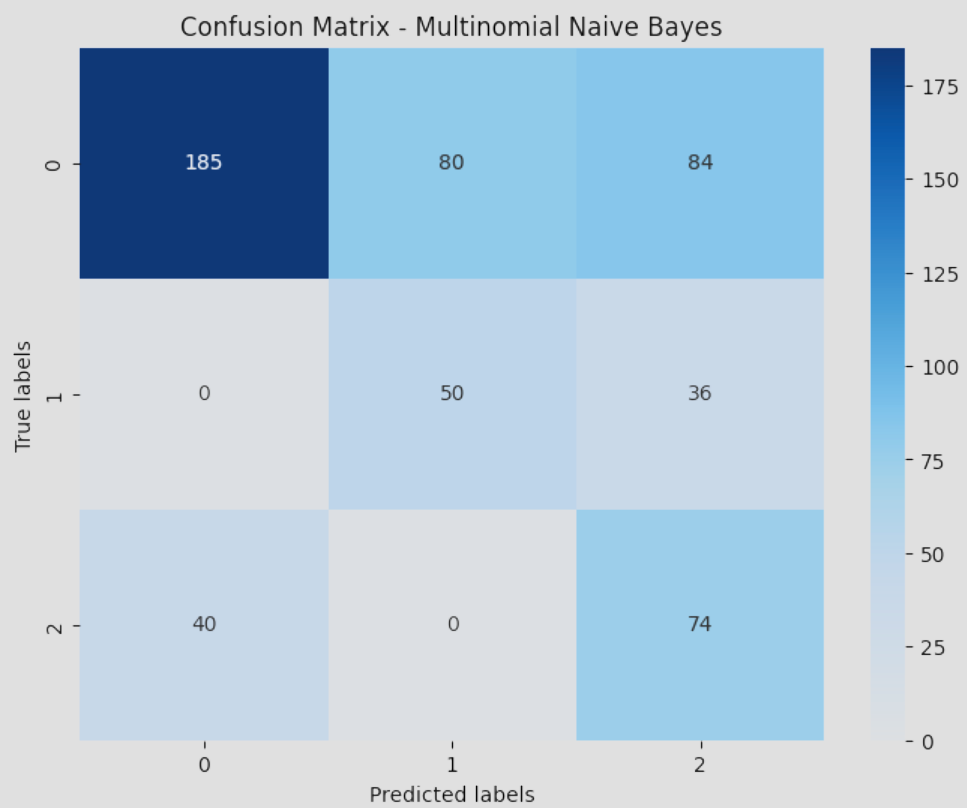
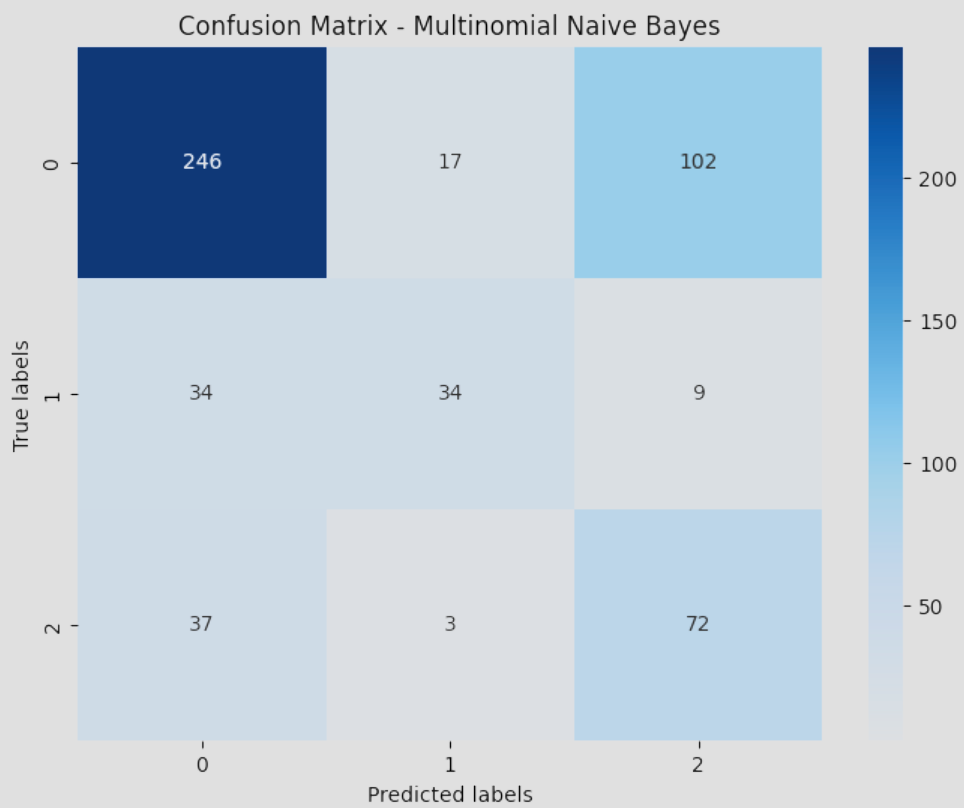
explore highlight font change

diff --git a/personal_portfolio/Portfolio/templates/portfolio/ml_project.html b/personal_portfolio/Portfolio/templates/portfolio/ml_project.html
@@ -975,13 +975,13 @@ h3 {
 
    <div>
        <span class="indented">
-       <h4>Code : <a href="https://github.com/santhosh1299/lithium_ion_battery_discharge_prediction/blob/main/NB.ipynb">Naive Bayes</a></h4>
+       <h4>Code : <a href="https://github.com/santhosh1299/lithium_ion_battery_discharge_prediction/blob/main/naive_bayes_and_decision_tree.ipynb">Naive Bayes</a></h4>
    </span>
    <h3>Results</h3>
 
    <br>
    <p>We noticed that our data had a significant imbalance between classes, meaning some classes were much more prevalent than others. Despite achieving 63% accuracy with a multinomial Naive Bayes model, upon analyzing the confusion matrix, we found discrepancies that raised concerns. To address this, we employed SMOTE, a technique for mitigating class imbalance by generating synthetic samples. However, after implementing SMOTE and retraining the multinomial model, we were disappointed to find a drastic drop in accuracy to only 28%. This outcome puzzled us, leading us to reconsider our approach. We realized that multinomial Naive Bayes is typically suited for text data or categorical data with count frequencies, whereas our data consisted of numerical features. Therefore, we decided to pivot to a Gaussian Naive Bayes model, which is better suited for numerical data. This adjustment was made with the hope of improving our model's performance by aligning it more closely with the nature of our dataset.</p>
-   <h4>Multinomial Naive Bayes model (Accuracy 56%) with imbalanced data</h4>
+   <h4>Multinomial Naive Bayes model (Accuracy 70%) with imbalanced data</h4>
    <img src={% static 'portfolio/NB & DecTree/result_nb_1.png' %} alt="api-logo" width="500" height="500">
    <br>
    <p>After applying the SMOTE technique to the training data</p>
@@ -998,8 +998,16 @@ h3 {
 
    <img src={% static 'portfolio/NB & DecTree/result_nb_3.png' %} alt="api-logo" width="600" height="371">
    <br>
+   <h3>Conclusion</h3>
+   <br>
+   <p>The results of predicting how long batteries will last are really important for different industries. When we know how long a battery will work, we can plan ahead and fix things before they break. This is especially useful for things like planes, cars, and renewable energy sources that rely on batteries. It helps us avoid accidents and saves time and money by fixing things before they break.</p>
 
-   
+<p>But it's not just about fixing things. Knowing how long batteries last helps us use them better. For example, in electric cars, we can make sure batteries are used efficiently and last longer. It also helps us use renewable energy sources, like solar and wind power, more reliably. And in healthcare, it ensures medical devices work when they're needed most.</p>
+
+<p>Overall, predicting battery life helps us work smarter, save money, and keep things running smoothly. By using fancy computer programs and new technology, we can make the world a better place and make sure things keep working for a long time.</p>
+
+
+
 
 </section>
 
@@ -1054,6 +1062,38 @@ h3 {
     <h4>All the categorical columns are converted to numerical values.</h4>
        <img src={% static 'portfolio/NB & DecTree/nb_after.png'' %} alt="api-logo" width="500" height="500">
        <br>
+       <div>
+        <span class="indented">
+        <h4>Code : <a href="https://github.com/santhosh1299/lithium_ion_battery_discharge_prediction/blob/main/naive_bayes_and_decision_tree.ipynb">Decision Tree</a></h4>
+    </span>
+    <h3>Results</h3>
+ 
+     <h4>Decision Tree with Gini as the criteria and other default parameters (Accuracy 98%)</h4>
+    <img src={% static 'portfolio/NB & DecTree/result_dt_1.png' %} alt="api-logo" width="500" height="500">
+    <br>
+    <img src={% static 'portfolio/NB & DecTree/tree_1.png' %} alt="api-logo" width="500" height="500">
+    <p>The tree structure appears overly intricate, featuring an abundance of branches.</p>
+    <br>
+    <h4>Decision Tree with entropy as the criteria and max_depth as 3 (Accuracy 96%)</h4>
+    <img src={% static 'portfolio/NB & DecTree/result_dt_2.png' %} alt="api-logo" width="500" height="500">
+    <br>
+    <img src={% static 'portfolio/NB & DecTree/tree_2.png' %} alt="api-logo" width="500" height="500">
+    <p>The tree complexity is reduced</p>
+    <br>
+    <h4>Decision Tree with entropy as the criteria, max_depth as 3 and max_features as 3 (Accuracy 93%)</h4>
+    <img src={% static 'portfolio/NB & DecTree/result_dt_3.png' %} alt="api-logo" width="500" height="500">
+    <br>
+    <img src={% static 'portfolio/NB & DecTree/tree_3.png' %} alt="api-logo" width="500" height="500">
+    <p>The tree complexity is reduced and the tree looks simple so this will give an generalized and optimal prediction.</p>
+    <br>
+ 
+    <h3>Conclusion</h3>
+    <br>
+    <p>The results of predicting battery life are really important for different industries. When we know the life expectancy of a battery, we can plan ahead and fix things before they break. This is especially useful for things like planes, cars, and renewable energy sources that rely on batteries. It helps us avoid accidents and saves time and money by fixing things before they break.</p>
+    
+    <p>But it's not just about fixing things. Knowing battery life helps us use them better. For example, in electric cars, we can make sure batteries are used efficiently and last longer. It also helps us use renewable energy sources, like solar and wind power, more reliably. And in healthcare, it ensures medical devices work when they're needed most.</p>
+    
+    <p>Overall, predicting battery life helps us work smarter, save money, and keep things running smoothly. By using fancy computer programs and new technology, we can make the world a better place and make sure things keep working for a long time.</p>
     
 
 </section>

diff --git a/personal_portfolio/Portfolio/templates/portfolio/home.html b/personal_portfolio/Portfolio/templates/portfolio/home.html
@@ -24,8 +24,8 @@
         class="img-fluid rounded-circle mb-4"
         src="{% static 'portfolio/santhosh_pic.PNG' %}"
         alt="Santhosh"
-        width="200"
-        height="200"
+        width="290"
+        height="308"
       />
     </div>
   </div>
@@ -486,6 +486,7 @@
 
         .overlay-content {
             color: white;
+            
         }
     </style>
 </head>
@@ -494,10 +495,10 @@
 <!-- Image Section -->
 <div class="image-container">
     <img src="{% static 'portfolio/sanpic_1.jpeg' %}" alt="Full Width Image">
-    <div class="image-overlay">
+    <div class="image-overlay" >
         <div class="overlay-content">
-            <h2>Explore My Highlights</h2>
-            <p>Discover key achievements and insights.</p>
+            <h2 style="font-size: 55px;" ><strong>Explore My Highlights</strong></h2>
+            
         </div>
     </div>
 </div>
